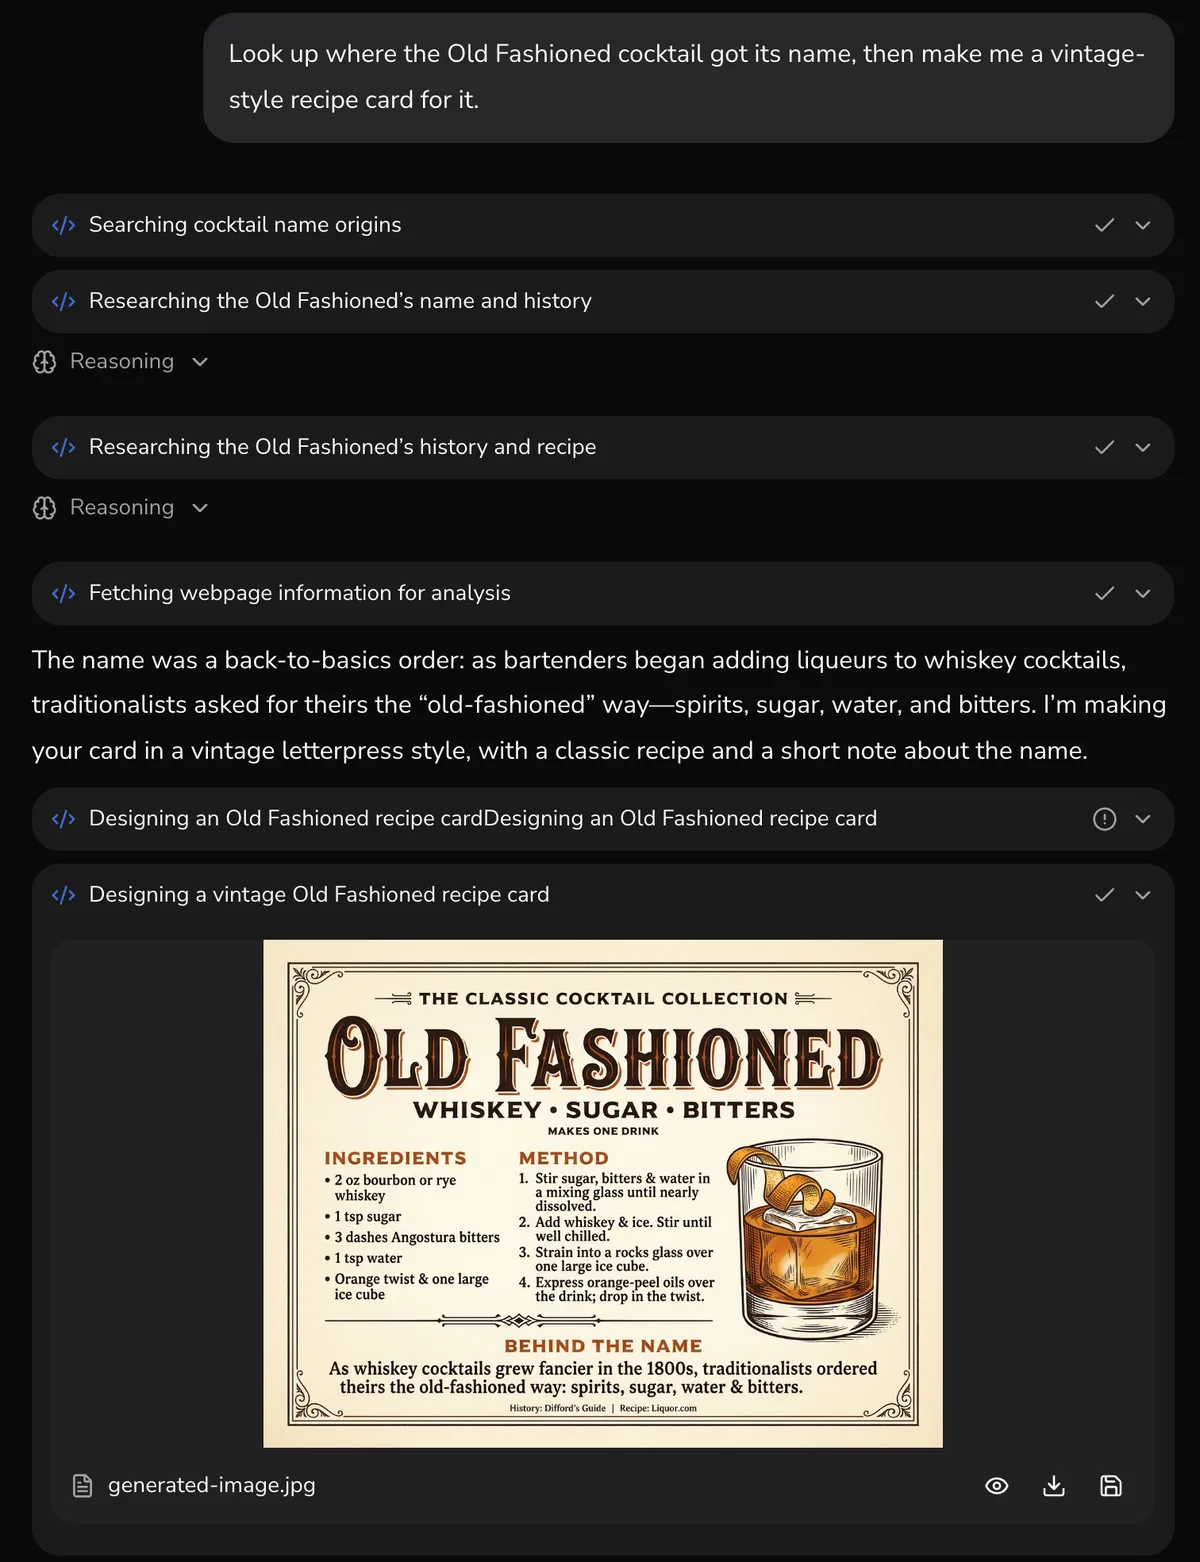
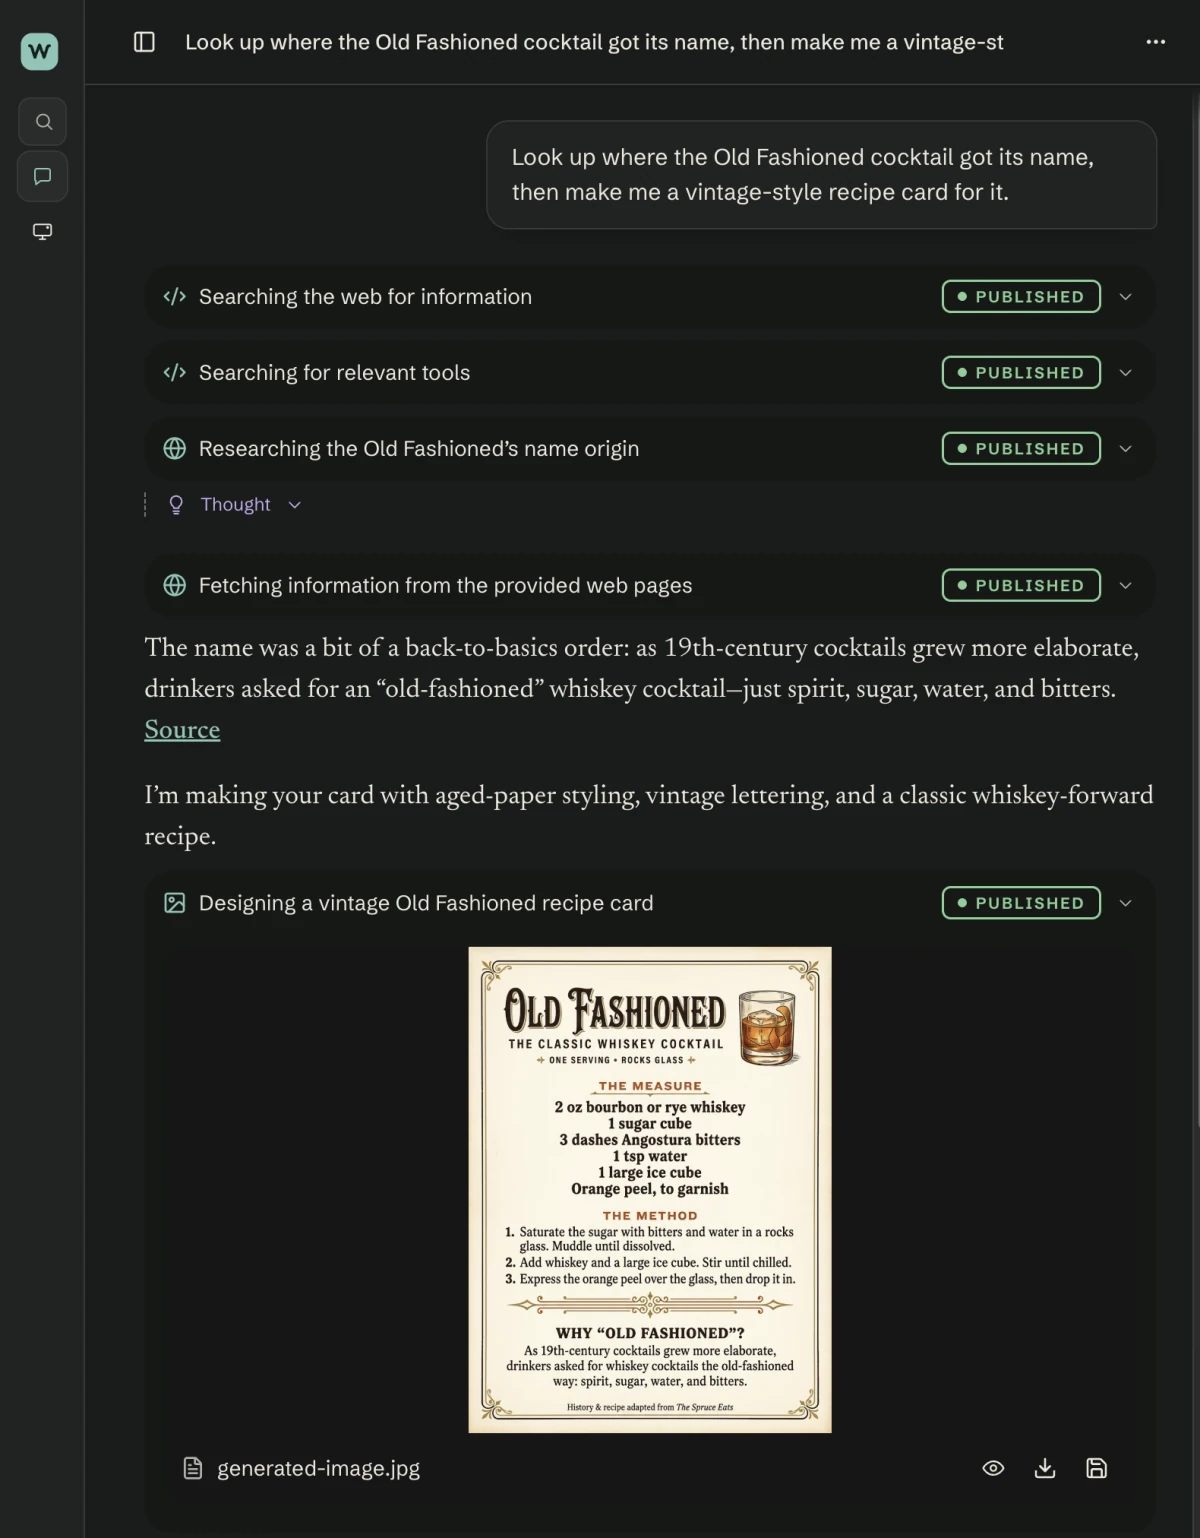
feat(dotcom): refresh the Whiskey project page (#346)
Whiskey-Source: 7d88a23134c201a02c90b4ce03b362475e7e0492

diff --git a/src/app/(site)/projects/whiskey/page.tsx b/src/app/(site)/projects/whiskey/page.tsx
@@ -17,7 +17,7 @@ import nowListeningDark from "./images/now-listening-dark.webp";
 import nowListeningLight from "./images/now-listening-light.webp";
 
 const description =
-  "The private platform behind my AI assistant, my smart home, my music, and my live streams.";
+  "My private platform for AI chat, smart-home automation, music, and live streaming—built so my data and tools live in one place I control.";
 
 export const metadata: Metadata = {
   title: "Whiskey | Matt Wyskiel",
@@ -45,13 +45,13 @@ const chapters: Chapter[] = [
     body: (
       <>
         <p>
-          I wanted one private system that holds my data and does small jobs for
-          me. Not a pile of apps that each keep a piece of my life, but one
-          place that I own and control.
+          I wanted one private system that holds my data and handles small jobs
+          for me. Not a pile of unrelated apps that each keep a slice of my
+          life, but one place that I own and control.
         </p>
         <p>
-          The early versions were small: a few AWS Lambda functions behind an
-          API, and an early AI chat service that ran on Amazon Bedrock.
+          The first version was modest: a few AWS Lambda functions behind an
+          API, paired with an early AI chat service on Amazon Bedrock.
         </p>
       </>
     ),
@@ -62,42 +62,44 @@ const chapters: Chapter[] = [
     body: (
       <>
         <p>
-          Some things should not live in the cloud. In March 2025 I set up a
-          server at home with its own HTTPS gateway. Home Assistant, a local AI
-          model, and a few tools moved behind one secure front door.
+          Some things belong on hardware I own, not in someone else's cloud. In
+          March 2025 I set up a home server with its own HTTPS gateway, placing
+          Home Assistant, a local AI setup, and a handful of personal tools
+          behind one private entry point.
         </p>
         <p>
-          A self-hosted secrets manager came next. In July, Whiskey got its
-          PostgreSQL database, which also runs at home. In November, a Jellyfin
-          media server joined.
+          A self-hosted secrets manager followed in April. In July, Whiskey got
+          its PostgreSQL database at home, and in November a Jellyfin media
+          server joined the machine.
         </p>
       </>
     ),
   },
   {
     when: "July 2026",
-    title: "Music in the house",
+    title: "Music and media in the house",
     body: (
       <>
         <p>
-          In July 2026 Whiskey learned to talk to Roon, the system that plays
-          music in my house. Now my wake-up alarm picks a random playlist from
-          my Roon library.
+          In July 2026 I connected Whiskey to Roon, the software that plays
+          music across my house. Now my wake-up alarm picks a random playlist
+          from my Roon library. When music plays at home, a small public feed
+          updates the card on this site with the current track.
         </p>
         <p>
-          Later, Jellyfin got automation too. It keeps a Looney Tunes playlist
-          up to date and refreshes the live TV guide every day. And when music
-          plays at home, a card on this website shows what is on.
+          Jellyfin gained background automation too. Whiskey keeps a Looney
+          Tunes playlist up to date and refreshes the live TV guide every day.
         </p>
       </>
     ),
     figure: (
       <ProjectFigure
         className="max-w-xs"
+        framed={false}
         image={nowListeningLight}
         darkImage={nowListeningDark}
-        alt="A card that reads: Now listening to Cake, Melanie Martinez, Cry Baby."
-        caption="The card on this site on November 4, 2026."
+        alt="A rounded card displaying sample playback: Now listening to Cake by Melanie Martinez from Cry Baby."
+        caption="The listening card on this site, shown with sample playback."
       />
     ),
   },
@@ -107,44 +109,16 @@ const chapters: Chapter[] = [
     body: (
       <>
         <p>
-          For a while, the Whiskey API ran as one server in containers behind a
-          load balancer. It worked, but I paid for that load balancer all day,
-          even when nothing used it.
+          For a while, the Whiskey API ran in containers behind a load balancer.
+          It worked, but I was paying for that load balancer around the clock,
+          even when nothing was calling it.
         </p>
         <p>
-          In October 2026 I moved the API back to Lambda. Each service now owns
-          its own functions. The services at home stayed at home: the cloud
-          reaches them over a private Tailscale network.
+          In October 2026 I moved the API back to AWS Lambda, with each service
+          owning its own functions. Stateful services stayed at home, joined to
+          the cloud over a private Tailscale network.
         </p>
       </>
-    ),
-  },
-  {
-    when: "Oct–Nov 2026",
-    title: "An assistant that can act",
-    body: (
-      <>
-        <p>
-          The web app became chat first. Replies are durable: if a connection
-          drops or a function restarts, the assistant continues where it stopped
-          and nothing is lost.
-        </p>
-        <p>
-          Then it got tools. It can search the web, and it can control my home
-          through my own Home Assistant account. It can read and save files,
-          make images, and understand video. It can also write and run small
-          programs that combine its tools in one step. I choose which tools a
-          chat can use, and which AI model answers.
-        </p>
-      </>
-    ),
-    figure: (
-      <ProjectFigure
-        image={assistantLight}
-        darkImage={assistantDark}
-        alt="A Whiskey chat. The request asks where the Old Fashioned got its name and for a vintage recipe card. Below it, tool steps search the web, read sources, and design the card. The finished card shows the recipe, the method, and a note on the name."
-        caption="I asked where the Old Fashioned got its name, and for a recipe card. Whiskey searched the web, read its sources, and made the card. Its first try at the image failed, so it fixed the problem and tried again."
-      />
     ),
   },
   {
@@ -153,16 +127,49 @@ const chapters: Chapter[] = [
     body: (
       <>
         <p>
-          Whiskey now runs my live streams too. I stream from a Mac mini at home
-          to <ProjectLink href="https://ywithaw.live">ywithaw</ProjectLink>.
-          Recordings go to the cloud, so the site and its videos stay up when
-          the Mac mini is off.
+          That same month, Whiskey took over my live streams. I broadcast from a
+          Mac mini at home to{" "}
+          <ProjectLink href="https://ywithaw.live">ywithaw</ProjectLink>, while
+          the public site and recordings live in the cloud so past broadcasts
+          stay online even when the Mac mini is off.
         </p>
         <p>
-          Viewers can chat during a broadcast. I get private viewer analytics
-          and a control room in the Whiskey web app.
+          Viewers can chat during a stream. I manage broadcasts, recordings, and
+          private viewer analytics from a control room inside the Whiskey web
+          app.
         </p>
       </>
+    ),
+  },
+  {
+    when: "Oct–Nov 2026",
+    title: "An assistant built for real work",
+    body: (
+      <>
+        <p>
+          The web app became chat-first, built so an in-progress reply can
+          recover after a dropped connection or server restart. Tools followed:
+          web research, Home Assistant, file uploads, image generation, and
+          small scripts that combine tools in one turn. I choose which tools and
+          AI model each conversation uses, and the assistant can search earlier
+          chats for context.
+        </p>
+        <p>
+          In November, the Workbench redesign rebuilt the web workspace around
+          reading, with replies in a focused column, inline tool activity and
+          source links, and composer controls close at hand in light and dark
+          themes. Alongside the web app, a private native app now brings Whiskey
+          chat to iPhone and Mac over the same API.
+        </p>
+      </>
+    ),
+    figure: (
+      <ProjectFigure
+        image={assistantLight}
+        darkImage={assistantDark}
+        alt="A saved Whiskey chat asking where the Old Fashioned cocktail got its name and for a vintage recipe card. Inline rows show web-research steps, followed by a cited answer and the generated recipe card."
+        caption="A saved chat example: I asked where the Old Fashioned got its name and for a vintage recipe card. Whiskey showed its web-research steps, cited a source, and generated the card inline."
+      />
     ),
   },
 ];
@@ -171,51 +178,51 @@ const capabilities = [
   {
     title: "Assistant",
     description:
-      "Chat with a choice of AI models. Search the web, control the house, read and save files, make images, and understand video.",
+      "Web and native Apple clients sharing one API for private AI chat, customizable tools, and personal context.",
   },
   {
     title: "Home",
     description:
-      "Home Assistant, a Jellyfin media server with live TV, and Roon music. Each is reached privately from the cloud.",
+      "Private cloud-to-home links for Home Assistant, Roon music playback, and scheduled Jellyfin library jobs.",
   },
   {
-    title: "Music and media",
+    title: "Publishing",
     description: (
       <>
-        Music alarms, the{" "}
+        Live-stream hosting and recordings for ywithaw, the{" "}
         <ProjectLink href="/projects/a-list">A-List</ProjectLink> mix player,
-        live streaming, and command-line tools that prepare audio for CDs and
-        split DJ mixes into tracks.
+        and command-line tools for preparing CD audio and splitting DJ mixes.
       </>
     ),
   },
   {
     title: "Platform",
     description:
-      "Sign-in with linked accounts, an event bus with an archive, daily database backups, and a command-line client for the API.",
+      "Hosted sign-in with linked accounts, an EventBridge event bus and S3 data lake, daily PostgreSQL backups, and a CLI for authenticated API calls.",
   },
 ];
 
 const cloud = [
-  "Web apps and sign-in",
-  "API and AI chat",
-  "Events and their archive",
-  "Files and backups",
+  "Web apps and hosted sign-in",
+  "Serverless API and AI chat",
+  "Event bus and data lake",
+  "Files, recordings, and backups",
 ];
 
 const home = [
-  "Database",
+  "PostgreSQL database",
   "Home Assistant",
-  "Jellyfin",
-  "Roon",
-  "Live streaming",
+  "Jellyfin media server",
+  "Roon music server",
+  "Live stream host",
 ];
 
 const publicParts = [
   {
     label: "ywithaw",
     href: "https://ywithaw.live",
-    description: "My live streams and past broadcasts.",
+    description:
+      "My live streams and past broadcasts, sent from home and served from the cloud.",
   },
   {
     label: "A-List",
@@ -225,7 +232,8 @@ const publicParts = [
   {
     label: "This website",
     href: "/projects/mattwyskiel-com",
-    description: "Including the card that shows what I am listening to.",
+    description:
+      "Built in the same monorepo, including the card that shows what is playing at home.",
   },
 ];
 
@@ -276,9 +284,12 @@ function Timeline({ items }: { items: Chapter[] }) {
           <div className="mt-3">
             <Prose>
               <p>
-                The first idea is still the goal. A data lake is in place, and
-                chat files are its first source. Email and documents are next.
-                So is a native app for iPhone and Mac, which I have started.
+                The first idea is still the north star. Earlier-chat context is
+                already working, and chat files and early email archives have
+                started flowing into one private archive. From here, I want
+                richer long-term memory across conversations, more of my own
+                documents and records in that archive, and a native iPhone and
+                Mac app that keeps pace with the web workspace.
               </p>
             </Prose>
           </div>
@@ -344,8 +355,8 @@ export default function WhiskeyPage() {
         ]}
       >
         <p>
-          When I first put up this page, Whiskey was a backend and a big idea.
-          It does a lot more now. This is how it grew.
+          What started in 2023 as a few cloud functions now spans a home server,
+          cloud APIs, and private web and Apple apps. Here is how it grew.
         </p>
       </ProjectHeader>
 
@@ -361,10 +372,11 @@ export default function WhiskeyPage() {
         <div className="mt-6">
           <Prose>
             <p>
-              It is all one TypeScript monorepo on Bun: 7 apps, 10 services, and
-              16 shared libraries as of November 2026. Pulumi describes the
-              infrastructure, with separate development and production stacks.
-              Every merge to the main branch deploys through GitHub Actions.
+              Everything lives in one Bun and TypeScript monorepo—Next.js web
+              apps, Hono APIs, shared libraries, a CLI, and the native Apple
+              app, which shares the API through generated OpenAPI clients.
+              Pulumi describes separate development and production stacks, and
+              merges to the main branch deploy through GitHub Actions.
             </p>
           </Prose>
         </div>
@@ -375,9 +387,11 @@ export default function WhiskeyPage() {
         <div className="mt-6">
           <Prose>
             <p>
-              Work that comes and goes, like web requests and AI chat, runs on
-              demand in AWS. Things that hold state or touch the house, like the
-              database and the media servers, stay on hardware I own.
+              Work that comes and goes—web pages, API requests, and AI chat—runs
+              on demand in AWS instead of idling on always-on servers, alongside
+              cloud storage for files, recordings, and backups. My primary
+              PostgreSQL database and the home, media, and live-streaming
+              systems stay on hardware I own at home.
             </p>
           </Prose>
         </div>
@@ -385,7 +399,10 @@ export default function WhiskeyPage() {
 
       <ProjectSection title="See it for yourself" id="public">
         <Prose>
-          <p>Whiskey itself is private, but some of what it runs is public.</p>
+          <p>
+            Whiskey itself is private, built for an audience of one, but a few
+            pieces face the public web.
+          </p>
         </Prose>
         <ul className="mt-5 space-y-4">
           {publicParts.map((part) => (
